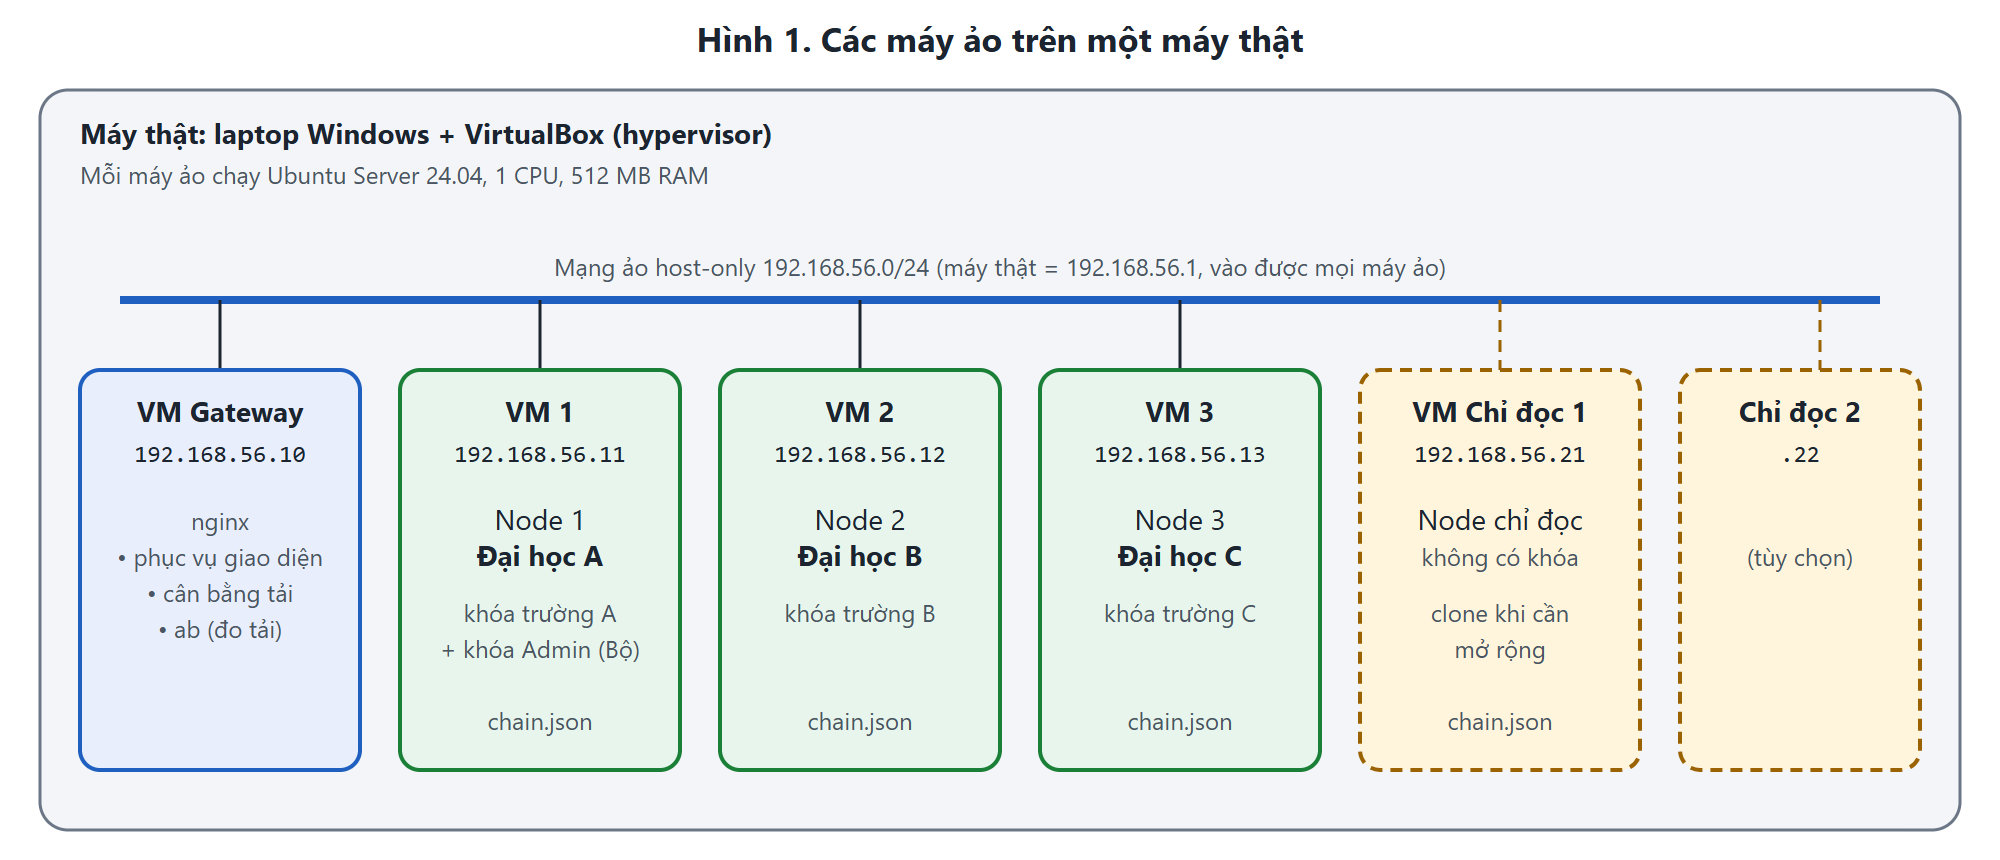
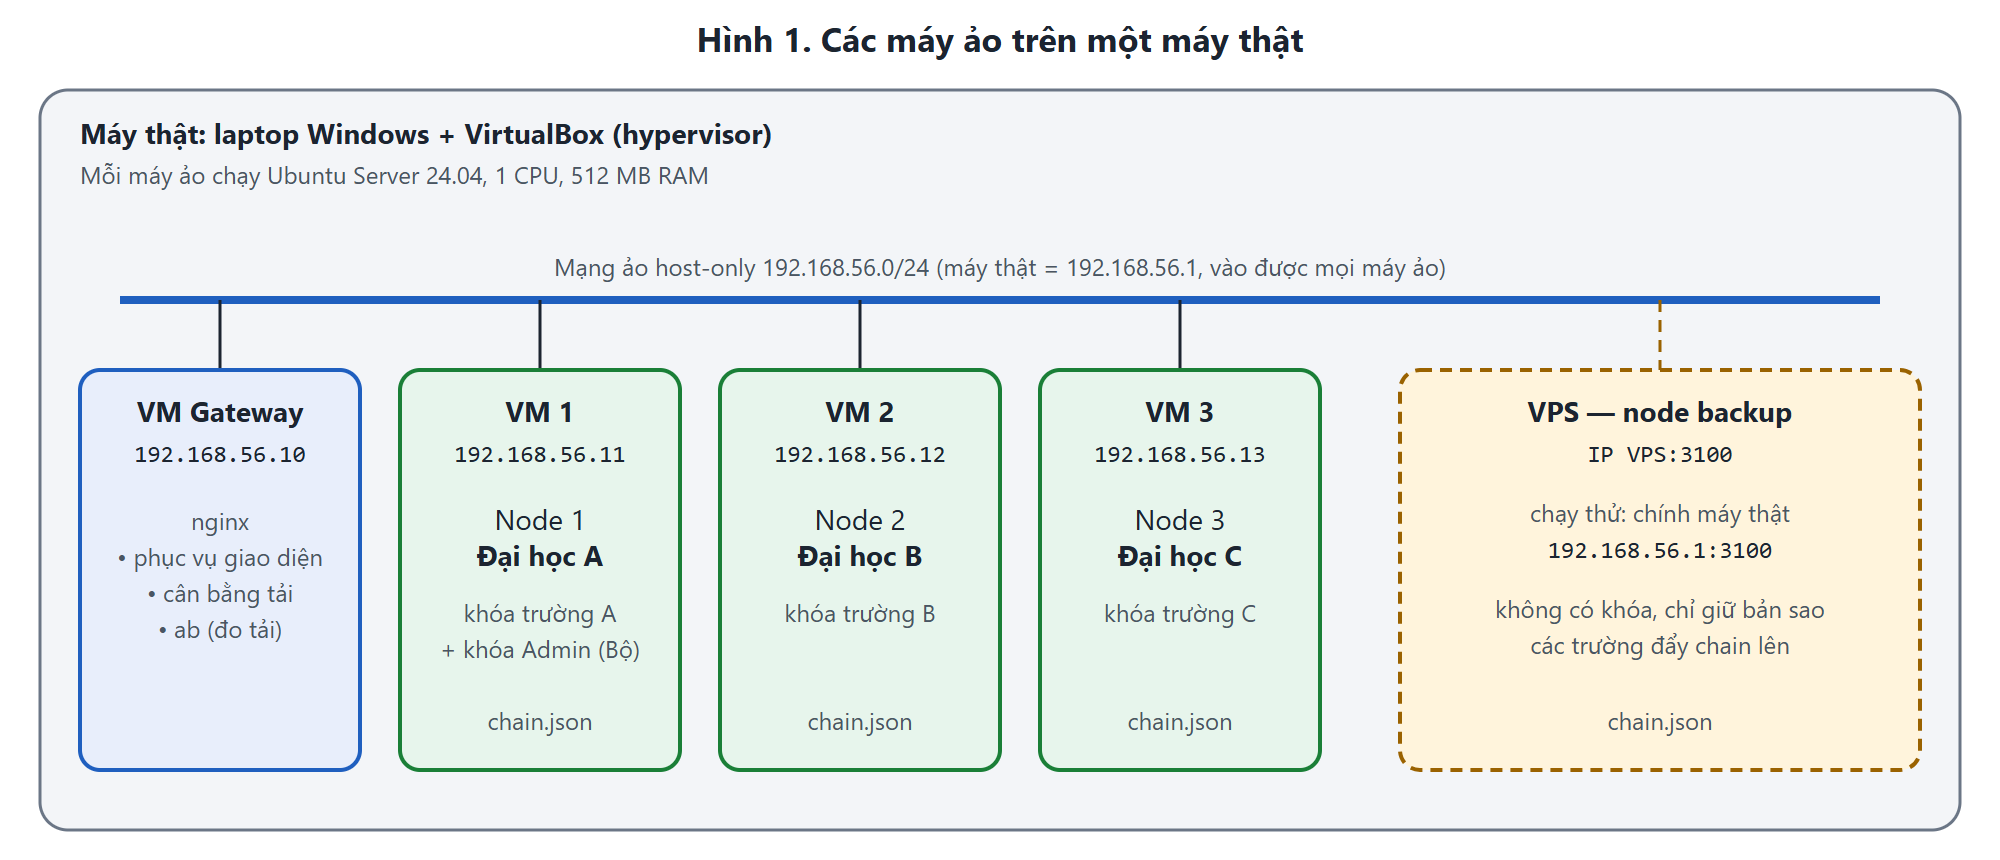
Diagrams: backup VPS instead of read-only nodes, two-step revocation

Changed region(s): [[0.682, 0.4233, 0.93, 0.907]]

diff --git a/docs/diagrams.html b/docs/diagrams.html
@@ -86,23 +86,16 @@
     <text x="70" y="126" class="c s">khóa trường C</text>
     <text x="70" y="180" class="c s">chain.json</text>
   </g>
-  <g transform="translate(680,185)">
-    <line x1="70" y1="-35" x2="70" y2="0" class="dash"/>
-    <rect width="140" height="200" rx="10" class="reader"/>
-    <text x="70" y="26" class="b c">VM Chỉ đọc 1</text>
-    <text x="70" y="46" class="m c">192.168.56.21</text>
-    <text x="70" y="80" class="c">Node chỉ đọc</text>
-    <text x="70" y="98" class="c s">không có khóa</text>
-    <text x="70" y="126" class="c s">clone khi cần</text>
-    <text x="70" y="144" class="c s">mở rộng</text>
-    <text x="70" y="180" class="c s">chain.json</text>
-  </g>
-  <g transform="translate(840,185)">
-    <line x1="70" y1="-35" x2="70" y2="0" class="dash"/>
-    <rect width="120" height="200" rx="10" class="reader"/>
-    <text x="60" y="26" class="b c">Chỉ đọc 2</text>
-    <text x="60" y="46" class="m c">.22</text>
-    <text x="60" y="98" class="c s">(tùy chọn)</text>
+  <g transform="translate(700,185)">
+    <line x1="130" y1="-35" x2="130" y2="0" class="dash"/>
+    <rect width="260" height="200" rx="10" class="reader"/>
+    <text x="130" y="26" class="b c">VPS — node backup</text>
+    <text x="130" y="46" class="m c">IP VPS:3100</text>
+    <text x="130" y="76" class="c s">chạy thử: chính máy thật</text>
+    <text x="130" y="94" class="m c">192.168.56.1:3100</text>
+    <text x="130" y="124" class="c s">không có khóa, chỉ giữ bản sao</text>
+    <text x="130" y="142" class="c s">các trường đẩy chain lên</text>
+    <text x="130" y="180" class="c s">chain.json</text>
   </g>
 </svg>
 
@@ -142,21 +135,22 @@
   </g>
   <g transform="translate(760,360)">
     <rect width="190" height="110" rx="10" class="reader"/>
-    <text x="95" y="28" class="b c">Node chỉ đọc 1, 2</text>
-    <text x="95" y="50" class="c s">chỉ đồng bộ + phục vụ đọc</text>
-    <text x="95" y="96" class="m c">.21, .22:3000</text>
+    <text x="95" y="28" class="b c">Backup trên VPS</text>
+    <text x="95" y="50" class="c s">không khóa, giữ bản sao</text>
+    <text x="95" y="70" class="c s">dự phòng cho phần đọc</text>
+    <text x="95" y="96" class="m c">IP VPS:3100</text>
   </g>
   <path d="M400,280 L155,360" class="line" marker-end="url(#arr)"/>
   <path d="M450,280 L385,360" class="line" marker-end="url(#arr)"/>
   <path d="M550,280 L615,360" class="line" marker-end="url(#arr)"/>
   <path d="M600,280 L855,360" class="dash" marker-end="url(#arrO)"/>
-  <text x="790" y="318" class="s">thêm khi mở rộng</text>
+  <text x="760" y="318" class="s">chỉ khi 3 trường đều tắt</text>
 
   <path d="M250,415 L290,415" class="sync" marker-start="url(#arrG)" marker-end="url(#arrG)"/>
   <path d="M480,415 L520,415" class="sync" marker-start="url(#arrG)" marker-end="url(#arrG)"/>
   <path d="M155,470 C155,520 615,520 615,470" class="sync" marker-start="url(#arrG)" marker-end="url(#arrG)"/>
-  <path d="M855,470 C855,520 700,520 680,474" class="dash" marker-end="url(#arrO)"/>
-  <text x="868" y="500" class="s">kéo chain</text>
+  <path d="M680,474 C700,520 855,520 855,474" class="dash" marker-end="url(#arrO)"/>
+  <text x="868" y="500" class="s">trường đẩy chain lên</text>
   <text x="385" y="540" class="c s">Đồng bộ qua HTTP: block mới → POST /blocks sang các trường; mỗi 3 giây GET /chain lấy chain dài nhất hợp lệ</text>
 </svg>
 
@@ -189,7 +183,7 @@
     <rect width="290" height="220" rx="10" class="school"/>
     <text x="15" y="28" class="b">Block #3</text>
     <text x="15" y="56" class="m">prevHash: 5be3…</text>
-    <text x="15" y="80" class="m">REVOKE VB2026-001</text>
+    <text x="15" y="80" class="m">REVOKE_REQUEST VB2026-001</text>
     <text x="15" y="104" class="m">merkleRoot: 7a10…</text>
     <text x="15" y="128" class="m">validator: khóa ĐH A</text>
     <text x="15" y="152" class="m">chữ ký của ĐH A</text>
@@ -273,7 +267,7 @@
     <rect x="360" y="45" width="120" height="40" rx="8" class="school"/><text x="420" y="70">Node 1 · ĐH A</text>
     <rect x="530" y="45" width="120" height="40" rx="8" class="school"/><text x="590" y="70">Node 2 · ĐH B</text>
     <rect x="700" y="45" width="120" height="40" rx="8" class="school"/><text x="760" y="70">Node 3 · ĐH C</text>
-    <rect x="860" y="45" width="120" height="40" rx="8" class="reader"/><text x="920" y="70">Node chỉ đọc</text>
+    <rect x="860" y="45" width="120" height="40" rx="8" class="reader"/><text x="920" y="70">Backup VPS</text>
   </g>
   <g stroke="#b8c2ce" stroke-dasharray="4 4">
     <line x1="90" y1="85" x2="90" y2="585"/><line x1="250" y1="85" x2="250" y2="585"/>
@@ -306,9 +300,9 @@
   <rect x="345" y="408" width="150" height="46" rx="6" class="box"/><text x="420" y="427" class="c s">⑨ kiểm tra hash, Merkle,</text><text x="420" y="444" class="c s">lượt, chữ ký → nối chain</text>
   <rect x="515" y="408" width="150" height="46" rx="6" class="box"/><text x="590" y="427" class="c s">⑨ kiểm tra hash, Merkle,</text><text x="590" y="444" class="c s">lượt, chữ ký → nối chain</text>
   <!-- 10: node chỉ đọc kéo chain -->
-  <path d="M920,484 L760,484" class="dash" marker-end="url(#arrO)"/><text x="776" y="477" class="s">⑩ GET /chain (mỗi 3 giây)</text>
-  <path d="M760,510 L920,510" class="dash" marker-end="url(#arrO)"/><text x="790" y="503" class="s">chain mới</text>
-  <rect x="845" y="522" width="150" height="46" rx="6" class="reader" style="stroke-dasharray:none"/><text x="920" y="541" class="c s">⑪ chain dài hơn và</text><text x="920" y="558" class="c s">hợp lệ → lấy về</text>
+  <path d="M760,484 L920,484" class="dash" marker-end="url(#arrO)"/><text x="772" y="477" class="s">⑩ POST /blocks (đẩy lên VPS)</text>
+  
+  <rect x="845" y="522" width="150" height="46" rx="6" class="reader" style="stroke-dasharray:none"/><text x="920" y="541" class="c s">⑪ kiểm tra block</text><text x="920" y="558" class="c s">→ lưu bản sao</text>
   <text x="30" y="560" class="s">Chain chỉ lưu hash của PDF và</text><text x="30" y="576" class="s">hash của mã sinh viên — không lưu file.</text>
 </svg>
 
@@ -324,14 +318,14 @@
   <g transform="translate(230,140)">
     <rect width="170" height="140" rx="10" class="gw"/>
     <text x="85" y="28" class="b c">Gateway nginx</text>
-    <text x="85" y="56" class="c s">nhóm vb_read</text><text x="85" y="74" class="c s">chia lần lượt:</text><text x="85" y="92" class="c s">1 → 2 → 3 → 4 → 1 …</text>
+    <text x="85" y="56" class="c s">nhóm vb_read</text><text x="85" y="74" class="c s">chia lần lượt:</text><text x="85" y="92" class="c s">1 → 2 → 3 → 1 …</text>
     <text x="85" y="118" class="c s">máy chết → bỏ qua</text>
   </g>
   <g class="s">
-    <rect x="470" y="55" width="210" height="60" rx="8" class="school"/><text x="480" y="78" class="b">Node 1 · ĐH A</text><text x="480" y="98">yêu cầu thứ 1, 5, 9 …</text>
-    <rect x="470" y="135" width="210" height="60" rx="8" class="school"/><text x="480" y="158" class="b">Node 2 · ĐH B</text><text x="480" y="178">yêu cầu thứ 2, 6 …</text>
-    <rect x="470" y="215" width="210" height="60" rx="8" class="school"/><text x="480" y="238" class="b">Node 3 · ĐH C</text><text x="480" y="258">yêu cầu thứ 3, 7 …</text>
-    <rect x="470" y="295" width="210" height="60" rx="8" class="reader"/><text x="480" y="318" class="b">Node chỉ đọc (mở rộng)</text><text x="480" y="338">yêu cầu thứ 4, 8 …</text>
+    <rect x="470" y="55" width="210" height="60" rx="8" class="school"/><text x="480" y="78" class="b">Node 1 · ĐH A</text><text x="480" y="98">yêu cầu thứ 1, 4, 7 …</text>
+    <rect x="470" y="135" width="210" height="60" rx="8" class="school"/><text x="480" y="158" class="b">Node 2 · ĐH B</text><text x="480" y="178">yêu cầu thứ 2, 5, 8 …</text>
+    <rect x="470" y="215" width="210" height="60" rx="8" class="school"/><text x="480" y="238" class="b">Node 3 · ĐH C</text><text x="480" y="258">yêu cầu thứ 3, 6, 9 …</text>
+    <rect x="470" y="295" width="210" height="60" rx="8" class="reader"/><text x="480" y="318" class="b">Backup VPS (dự phòng)</text><text x="480" y="338">chỉ khi cả 3 trường tắt</text>
   </g>
   <path d="M400,195 L470,85" class="line" marker-end="url(#arr)"/>
   <path d="M400,205 L470,165" class="line" marker-end="url(#arr)"/>
@@ -455,40 +449,36 @@
   <text x="240" y="1082" class="lab">Bất kỳ lúc nào sau khi cấp:</text>
   <circle cx="330" cy="1098" r="7" fill="#1c2430"/>
   <path d="M330,1105 L330,1118" class="line" marker-end="url(#arr)"/>
-  <rect x="240" y="1118" width="180" height="54" rx="14" class="a"/><text x="330" y="1141" class="ac">Phát hiện gian lận →</text><text x="330" y="1159" class="ac">thu hồi (REVOKE + lý do)</text>
+  <rect x="240" y="1118" width="180" height="54" rx="14" class="a"/><text x="330" y="1141" class="ac">Gửi yêu cầu thu hồi</text><text x="330" y="1159" class="ac">+ lý do + bằng chứng</text>
   <path d="M420,1145 L950,1145" class="line" marker-end="url(#arr)"/>
-  <rect x="950" y="1118" width="240" height="54" rx="14" class="reader" style="stroke-dasharray:none"/><text x="1070" y="1141" class="ac">Ghi thêm REVOKE vào block</text><text x="1070" y="1159" class="ac">(không xóa bản ghi cũ)</text>
+  <rect x="950" y="1118" width="240" height="54" rx="14" class="reader" style="stroke-dasharray:none"/><text x="1070" y="1141" class="ac">Trường khác xem bằng chứng,</text><text x="1070" y="1159" class="ac">chấp nhận → đủ 2/3: thu hồi</text>
   <path d="M1130,1118 L1130,827" class="dash" marker-end="url(#arrO)"/>
   <text x="1138" y="960" class="lab">lần xác</text><text x="1138" y="976" class="lab">minh sau</text><text x="1138" y="992" class="lab">→ ⚠</text>
 </svg>
 
 <!-- HÌNH 6: KẾT QUẢ ĐO (trung vị 6 lần đo, ab -n 2000 -c 50, POST /api/verify) -->
-<svg id="h6-do-tai" width="760" height="380">
-  <text x="380" y="26" class="t c">Hình 6. Yêu cầu xác minh xử lý được mỗi giây</text>
+<svg id="h6-do-tai" width="520" height="380">
+  <text x="260" y="26" class="t c">Hình 6. Yêu cầu xác minh xử lý được mỗi giây</text>
   <g class="s">
     <!-- trục y: 0..600, 1 đơn vị = 0.45px; gốc y=320 -->
-    <line x1="80" y1="320" x2="720" y2="320" stroke="#8a94a3"/>
-    <line x1="80" y1="230" x2="720" y2="230" stroke="#e3e7ec"/><text x="70" y="234" text-anchor="end" class="s">200</text>
-    <line x1="80" y1="140" x2="720" y2="140" stroke="#e3e7ec"/><text x="70" y="144" text-anchor="end" class="s">400</text>
-    <line x1="80" y1="50" x2="720" y2="50" stroke="#e3e7ec"/><text x="70" y="54" text-anchor="end" class="s">600</text>
+    <line x1="80" y1="320" x2="480" y2="320" stroke="#8a94a3"/>
+    <line x1="80" y1="230" x2="480" y2="230" stroke="#e3e7ec"/><text x="70" y="234" text-anchor="end" class="s">200</text>
+    <line x1="80" y1="140" x2="480" y2="140" stroke="#e3e7ec"/><text x="70" y="144" text-anchor="end" class="s">400</text>
+    <line x1="80" y1="50" x2="480" y2="50" stroke="#e3e7ec"/><text x="70" y="54" text-anchor="end" class="s">600</text>
     <text x="70" y="324" text-anchor="end" class="s">0</text>
   </g>
   <g fill="#1f5fbf">
     <path d="M110,320 V226.35 a4,4 0 0 1 4,-4 H186 a4,4 0 0 1 4,4 V320 Z"/>
     <path d="M238,320 V168.3 a4,4 0 0 1 4,-4 H314 a4,4 0 0 1 4,4 V320 Z"/>
     <path d="M366,320 V99.45 a4,4 0 0 1 4,-4 H442 a4,4 0 0 1 4,4 V320 Z"/>
-    <path d="M494,320 V140.85 a4,4 0 0 1 4,-4 H570 a4,4 0 0 1 4,4 V320 Z" fill="#7da2db"/>
-    <path d="M622,320 V67.05 a4,4 0 0 1 4,-4 H698 a4,4 0 0 1 4,4 V320 Z"/>
   </g>
   <g class="c b">
     <text x="150" y="214">217</text><text x="278" y="156">346</text><text x="406" y="87">499</text>
-    <text x="534" y="128">407</text><text x="662" y="55">571</text>
   </g>
   <g class="c">
     <text x="150" y="342">1 node</text><text x="278" y="342">2 node</text><text x="406" y="342">3 node</text>
-    <text x="534" y="342">3 + 1 chỉ đọc</text><text x="662" y="342">3 + 2 chỉ đọc</text>
   </g>
-  <text x="380" y="368" class="c s">Cả 6 máy ảo dùng chung 1 laptop (6 nhân). Cột nhạt: số liệu dao động mạnh vì laptop đã gần hết CPU.</text>
+  <text x="260" y="368" class="c s">Trung vị 6 lần đo, ab -n 2000 -c 50, xác minh bằng PDF. Các máy ảo dùng chung 1 laptop (6 nhân).</text>
 </svg>
 </body>
 </html>
